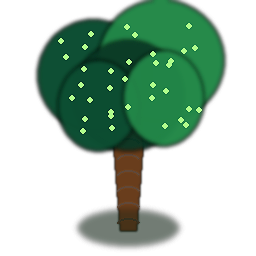
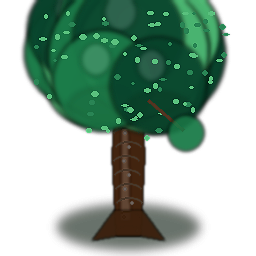
Make grass, trees, and water tiles more realistic.
Layered grass blades with flora, organic canopy trees with bark detail,
and depth-graded water with caustics/foam animation frames.

diff --git a/tools/gen_realistic_flora_water.py b/tools/gen_realistic_flora_water.py
@@ -1,0 +1,358 @@
+#!/usr/bin/env python3
+"""More realistic grass, trees, and water tiles (256px)."""
+from __future__ import annotations
+
+import math
+import random
+from pathlib import Path
+
+from PIL import Image, ImageDraw, ImageEnhance, ImageFilter
+
+TILES = Path("/workspace/assets/tiles")
+SIZE = 256
+
+
+def clamp(v: float) -> int:
+    return max(0, min(255, int(round(v))))
+
+
+def mix(a, b, t: float):
+    t = max(0.0, min(1.0, t))
+    return tuple(clamp(a[i] * (1 - t) + b[i] * t) for i in range(3))
+
+
+def shade(c, amt: float):
+    if amt >= 0:
+        return mix(c, (255, 255, 255), amt)
+    return mix(c, (8, 12, 8), -amt)
+
+
+def rgba(c, a=255):
+    return (c[0], c[1], c[2], a)
+
+
+def fbm(x, y, seed, octaves=5):
+    total = amp = norm = 0.0
+    amp = 1.0
+    freq = 1.0
+    for o in range(octaves):
+        n = (
+            math.sin((x * freq + seed * 1.7 + o * 13.1) * 0.11)
+            * math.cos((y * freq - seed * 0.9 + o * 7.3) * 0.13)
+            + math.sin((x + y) * freq * 0.07 + seed) * 0.35
+        )
+        total += n * amp
+        norm += amp
+        amp *= 0.5
+        freq *= 2.05
+    return (total / max(norm, 1e-6) + 1.0) * 0.5
+
+
+def finish(img: Image.Image) -> Image.Image:
+    soft = img.filter(ImageFilter.GaussianBlur(0.65))
+    out = Image.alpha_composite(soft, img)
+    out = Image.blend(out, out.filter(ImageFilter.DETAIL), 0.5)
+    out = ImageEnhance.Contrast(out).enhance(1.14)
+    out = ImageEnhance.Color(out).enhance(1.12)
+    out = ImageEnhance.Sharpness(out).enhance(1.3)
+    return out
+
+
+def soft_ellipse(img, box, col, blur=1.6):
+    layer = Image.new("RGBA", (SIZE, SIZE), (0, 0, 0, 0))
+    ImageDraw.Draw(layer).ellipse(box, fill=col)
+    if blur > 0:
+        layer = layer.filter(ImageFilter.GaussianBlur(blur))
+    return Image.alpha_composite(img, layer)
+
+
+def soft_poly(img, pts, col, blur=1.0):
+    layer = Image.new("RGBA", (SIZE, SIZE), (0, 0, 0, 0))
+    ImageDraw.Draw(layer).polygon(pts, fill=col)
+    if blur > 0:
+        layer = layer.filter(ImageFilter.GaussianBlur(blur))
+    return Image.alpha_composite(img, layer)
+
+
+# ─── Grass ───────────────────────────────────────────────────────────────────
+
+def make_grass(variant: int = 0) -> Image.Image:
+    """Soil bed + layered blades with lighting, thatch, and tiny flora."""
+    soil_a, soil_b = (42, 62, 28), (68, 98, 48)
+    blade_dark, blade_mid, blade_lit = (24, 78, 38), (48, 130, 62), (120, 190, 100)
+    if variant == 1:
+        soil_a, soil_b = (36, 70, 40), (60, 110, 58)
+        blade_dark, blade_mid, blade_lit = (20, 70, 48), (40, 125, 75), (110, 195, 130)
+    elif variant == 2:
+        soil_a, soil_b = (50, 58, 30), (90, 110, 50)
+        blade_dark, blade_mid, blade_lit = (40, 85, 35), (80, 145, 55), (160, 205, 110)
+    elif variant == 3:
+        soil_a, soil_b = (30, 55, 36), (55, 95, 60)
+        blade_dark, blade_mid, blade_lit = (18, 60, 40), (36, 110, 70), (95, 170, 115)
+
+    img = Image.new("RGBA", (SIZE, SIZE))
+    pix = img.load()
+    # soil / thatch bed with soft lighting
+    for y in range(SIZE):
+        for x in range(SIZE):
+            n = fbm(x * 1.1, y * 1.1, 11 + variant * 17)
+            n2 = fbm(x * 2.4, y * 2.4, 40 + variant)
+            t = n * 0.65 + n2 * 0.35
+            col = mix(soil_a, soil_b, t)
+            # top-left light
+            lit = 0.55 + 0.45 * ((SIZE - x) / SIZE * 0.4 + (SIZE - y) / SIZE * 0.6)
+            col = mix(shade(col, -0.2), shade(col, 0.25), lit)
+            pix[x, y] = rgba(col)
+
+    d = ImageDraw.Draw(img)
+    rnd = random.Random(100 + variant * 77)
+
+    # thatch / dead grass underlayer
+    for _ in range(180):
+        x = rnd.randint(2, SIZE - 3)
+        y = rnd.randint(20, SIZE - 2)
+        h = rnd.randint(6, 14)
+        lean = rnd.randint(-3, 3)
+        d.line([(x, y), (x + lean, y - h)], fill=(90, 78, 40, 120), width=1)
+
+    # primary blades — back row (darker, taller)
+    for _ in range(380):
+        x = rnd.randint(1, SIZE - 2)
+        y = rnd.randint(24, SIZE - 1)
+        h = rnd.randint(16, 36)
+        lean = rnd.randint(-6, 6)
+        # blade with midrib highlight
+        d.line([(x, y), (x + lean, y - h)], fill=rgba(blade_dark, 235), width=2)
+        d.line([(x, y), (x + lean // 2, y - int(h * 0.7))], fill=rgba(blade_mid, 160), width=1)
+
+    # front blades (brighter)
+    for _ in range(420):
+        x = rnd.randint(1, SIZE - 2)
+        y = rnd.randint(30, SIZE - 1)
+        h = rnd.randint(10, 26)
+        lean = rnd.randint(-5, 5)
+        col = blade_lit if rnd.random() > 0.35 else blade_mid
+        d.line([(x, y), (x + lean, y - h)], fill=rgba(col, 240), width=1)
+        if rnd.random() > 0.82:
+            # dew tip
+            d.ellipse(
+                [x + lean - 1, y - h - 2, x + lean + 2, y - h + 1],
+                fill=(200, 230, 255, 150),
+            )
+
+    # clover clusters
+    for _ in range(14):
+        cx, cy = rnd.randint(16, SIZE - 20), rnd.randint(40, SIZE - 24)
+        for _leaf in range(3):
+            ang = _leaf * 2.1 + rnd.random()
+            lx = cx + int(math.cos(ang) * 4)
+            ly = cy + int(math.sin(ang) * 3)
+            d.ellipse([lx - 3, ly - 2, lx + 3, ly + 2], fill=(50, 140, 70, 200))
+
+    # wildflowers
+    for _ in range(10):
+        fx, fy = rnd.randint(14, SIZE - 16), rnd.randint(36, SIZE - 20)
+        petal = (235, 200, 80, 210) if rnd.random() > 0.4 else (230, 130, 150, 200)
+        for ox, oy in ((0, -2), (2, 0), (0, 2), (-2, 0)):
+            d.ellipse([fx + ox, fy + oy, fx + ox + 3, fy + oy + 3], fill=petal)
+        d.ellipse([fx, fy, fx + 2, fy + 2], fill=(255, 240, 160, 230))
+
+    # soft contact shadow at tile bottom for depth
+    overlay = Image.new("RGBA", (SIZE, SIZE), (0, 0, 0, 0))
+    od = ImageDraw.Draw(overlay)
+    for i in range(18):
+        a = int(40 * (1 - i / 18))
+        od.rectangle([0, SIZE - 18 + i, SIZE - 1, SIZE - 17 + i], fill=(20, 35, 18, a))
+    img = Image.alpha_composite(img, overlay)
+    return finish(img)
+
+
+# ─── Trees ───────────────────────────────────────────────────────────────────
+
+def make_tree(variant: int = 0) -> Image.Image:
+    """Bark trunk + layered canopy clusters with leaf flecks and ground shadow."""
+    img = Image.new("RGBA", (SIZE, SIZE), (0, 0, 0, 0))
+    rnd = random.Random(200 + variant * 33)
+    cx = SIZE // 2 + (variant - 1) * 12
+
+    palettes = [
+        ((18, 70, 36), (40, 120, 58), (90, 170, 90), (70, 42, 24)),
+        ((14, 60, 42), (34, 110, 70), (80, 165, 110), (60, 36, 20)),
+        ((30, 85, 40), (70, 145, 65), (130, 190, 100), (85, 50, 28)),
+        ((22, 75, 50), (55, 130, 75), (110, 180, 120), (75, 45, 26)),
+    ]
+    deep, mid, lit, bark = palettes[variant % 4]
+
+    # ground shadow first
+    img = soft_ellipse(img, [cx - 70, 205, cx + 70, 248], (12, 24, 14, 95), 5.0)
+
+    # trunk — tapered with bark ridges
+    trunk_pts = [
+        (cx - 16, 155),
+        (cx - 11, 70),
+        (cx + 11, 70),
+        (cx + 16, 155),
+        (cx + 12, 235),
+        (cx - 12, 235),
+    ]
+    img = soft_poly(img, trunk_pts, rgba(bark), 1.1)
+    # trunk lighting
+    img = soft_poly(
+        img,
+        [(cx - 6, 80), (cx - 2, 80), (cx + 2, 220), (cx - 8, 220)],
+        rgba(shade(bark, 0.25), 140),
+        1.5,
+    )
+    d = ImageDraw.Draw(img)
+    for y in range(85, 230, 14):
+        wobble = rnd.randint(-2, 2)
+        d.arc([cx - 14 + wobble, y, cx + 14 + wobble, y + 16], 200, 340, fill=(40, 24, 12, 150), width=2)
+        # bark pores
+        px = cx + rnd.randint(-8, 8)
+        d.ellipse([px, y + 4, px + 3, y + 7], fill=(30, 18, 10, 100))
+
+    # root flare
+    img = soft_poly(
+        img,
+        [(cx - 14, 210), (cx - 36, 240), (cx - 8, 235), (cx + 8, 235), (cx + 36, 240), (cx + 14, 210)],
+        rgba(shade(bark, -0.1), 220),
+        1.2,
+    )
+
+    # canopy clusters — many overlapping blobs for organic mass
+    clusters = []
+    for i in range(16):
+        ang = i * (math.pi * 2 / 16) + rnd.random() * 0.4
+        dist = 28 + rnd.randint(0, 48)
+        bx = cx + int(math.cos(ang) * dist * 0.85)
+        by = 70 + int(math.sin(ang) * dist * 0.55) - 20
+        r = 38 + rnd.randint(0, 28)
+        col = deep if i % 3 == 0 else (mid if i % 3 == 1 else lit)
+        clusters.append((bx, by, r, col))
+    # center mass
+    clusters += [
+        (cx - 10, 55, 70, mid),
+        (cx + 15, 50, 65, lit),
+        (cx, 35, 55, deep),
+        (cx - 25, 80, 50, mid),
+        (cx + 30, 85, 48, deep),
+    ]
+    for bx, by, r, col in clusters:
+        img = soft_ellipse(img, [bx - r, by - r, bx + r, by + r], rgba(col, 235), 2.4)
+        # underside AO on each cluster
+        img = soft_ellipse(
+            img,
+            [bx - int(r * 0.7), by + int(r * 0.15), bx + int(r * 0.7), by + int(r * 0.95)],
+            rgba(shade(col, -0.35), 70),
+            3.0,
+        )
+        # highlight cap
+        img = soft_ellipse(
+            img,
+            [bx - int(r * 0.45), by - int(r * 0.75), bx + int(r * 0.15), by - int(r * 0.1)],
+            rgba(shade(col, 0.35), 90),
+            2.5,
+        )
+
+    # individual leaf flecks / sun spots
+    d = ImageDraw.Draw(img)
+    pix = img.load()
+    for _ in range(90):
+        x = rnd.randint(cx - 95, cx + 95)
+        y = rnd.randint(10, 140)
+        if x < 0 or y < 0 or x >= SIZE - 4 or y >= SIZE - 4:
+            continue
+        if pix[x, y][3] < 40:
+            continue
+        col = lit if rnd.random() > 0.4 else mid
+        d.ellipse([x, y, x + rnd.randint(3, 7), y + rnd.randint(2, 5)], fill=rgba(col, 190))
+
+    # hanging branch hint
+    d.line([(cx + 20, 100), (cx + 55, 130)], fill=rgba(bark, 180), width=3)
+    img = soft_ellipse(img, [cx + 40, 115, cx + 75, 150], rgba(mid, 200), 1.8)
+
+    return finish(img)
+
+
+# ─── Water ───────────────────────────────────────────────────────────────────
+
+def make_water(phase: int = 0) -> Image.Image:
+    """Depth-graded water with caustics, foam crests, and soft reflections."""
+    deep = (8, 42, 72)
+    mid = (22, 100, 140)
+    shallow = (70, 175, 205)
+    foam = (210, 240, 250)
+    img = Image.new("RGBA", (SIZE, SIZE))
+    pix = img.load()
+
+    for y in range(SIZE):
+        for x in range(SIZE):
+            # depth gradient (deeper toward bottom-right for variety)
+            depth = 0.35 + 0.4 * (y / SIZE) + 0.15 * (x / SIZE)
+            # multi-wave field
+            w1 = math.sin((x + phase * 9) * 0.055 + y * 0.04)
+            w2 = math.cos((y - phase * 4) * 0.07 + x * 0.03)
+            w3 = math.sin((x * 0.12 + y * 0.09) + phase * 0.8)
+            caustic = fbm(x * 1.6 + phase * 3, y * 1.6, 90 + phase)
+            wave = w1 * 0.45 + w2 * 0.3 + w3 * 0.15 + (caustic - 0.5) * 0.5
+
+            base = mix(deep, mid, depth)
+            if wave > 0.55:
+                col = mix(base, shallow, min(1.0, (wave - 0.55) * 2.2))
+            elif wave < -0.45:
+                col = mix(base, shade(deep, -0.15), min(1.0, (-wave - 0.45) * 1.8))
+            else:
+                col = mix(base, shallow, 0.15 + wave * 0.2)
+
+            # specular glitter on wave peaks
+            if wave > 0.75 and caustic > 0.6:
+                col = mix(col, (255, 255, 255), 0.45)
+            pix[x, y] = rgba(col)
+
+    d = ImageDraw.Draw(img)
+    # foam crest arcs (animated by phase)
+    for i in range(4):
+        yy = 45 + i * 48 + (phase % 4) * 5
+        alpha = 130 - i * 15
+        d.arc([12, yy - 28, SIZE - 12, yy + 36], 200, 340, fill=(*foam, alpha), width=3)
+        d.arc([30, yy - 10, SIZE - 30, yy + 40], 210, 330, fill=(255, 255, 255, alpha // 2), width=2)
+
+    # soft shoreline foam flecks
+    rnd = random.Random(50 + phase)
+    for _ in range(40):
+        x = rnd.randint(8, SIZE - 10)
+        y = rnd.randint(8, SIZE - 10)
+        if rnd.random() > 0.5:
+            d.ellipse([x, y, x + 5, y + 2], fill=(230, 245, 255, 100))
+
+    # subsurface green tint patches (weeds / algae)
+    for _ in range(6):
+        x, y = rnd.randint(20, SIZE - 40), rnd.randint(40, SIZE - 40)
+        img = soft_ellipse(img, [x, y, x + 36, y + 20], (30, 120, 90, 45), 4.0)
+
+    # vignette depth
+    overlay = Image.new("RGBA", (SIZE, SIZE), (0, 0, 0, 0))
+    od = ImageDraw.Draw(overlay)
+    od.rectangle([0, 0, SIZE - 1, SIZE - 1], outline=(6, 30, 50, 50), width=4)
+    img = Image.alpha_composite(img, overlay)
+    return finish(img)
+
+
+def main():
+    for i in range(4):
+        name = "grass.png" if i == 0 else f"grass_{i}.png"
+        make_grass(i).save(TILES / name)
+        print("grass", name)
+    for i in range(4):
+        name = "tree.png" if i == 0 else f"tree_{i}.png"
+        make_tree(i).save(TILES / name)
+        print("tree", name)
+    for i in range(4):
+        name = f"water_{i}.png"
+        make_water(i).save(TILES / name)
+        print("water", name)
+    print("DONE")
+
+
+if __name__ == "__main__":
+    main()
